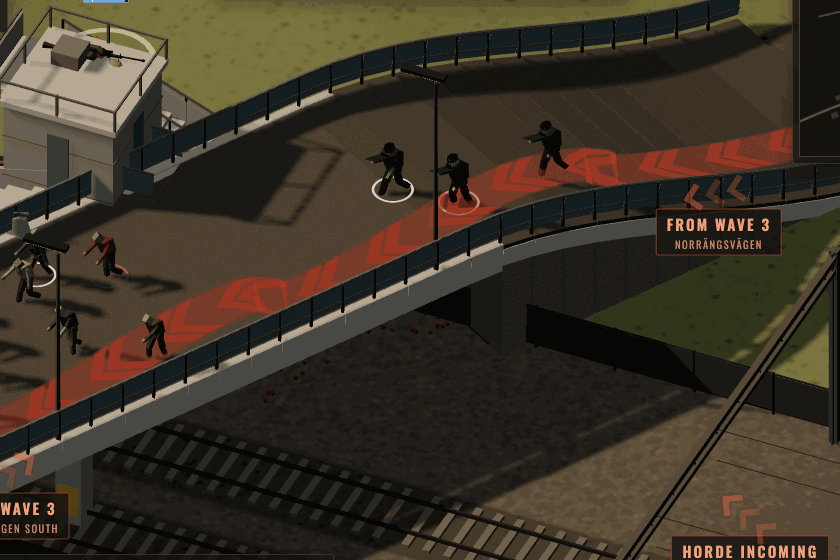
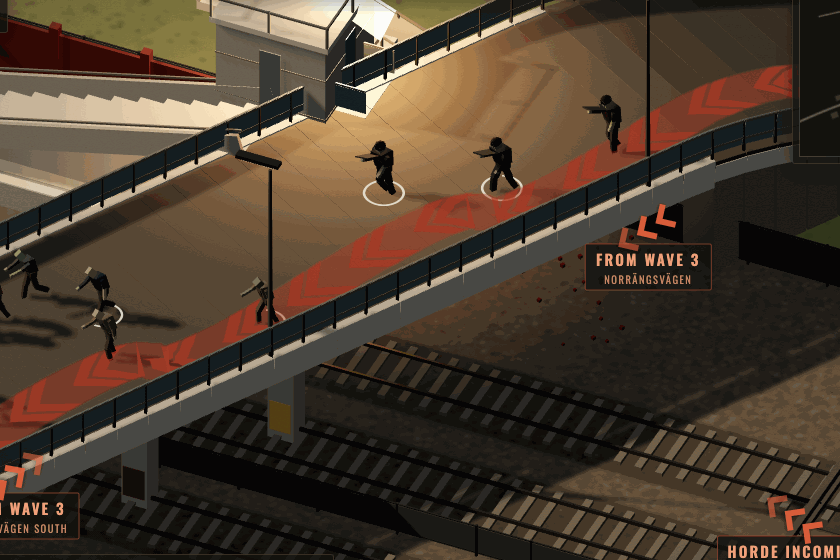
0.20.1: CHANGELOG, balansloggen, todo H520 till H528, skivprovets bilder

diff --git a/todo.md b/todo.md
@@ -444,3 +444,12 @@ Format: `- [ ] id | område | sak`. Bocka av med [x] när det är gjort.
 - [ ] H500 | hub | Kartbordet v3 efter Olas beslut (mellansnack avsnitt 11): ingen tejp, fysisk känsla, en sak i taget (karta + en lapp först), lappar staplade per uppdrag, egen hög för fiendeinfo, ett kort per enhet (ingen ×2), bättre översiktskarta (stor + inzoomad Gnesta senare), snören som detalj. Mockup kontrollrum-3.
 - [x] H501 | laxne | Sjösidan är tom: fyll med skog efter kartöversikten (kontrollera mot OSM wood och satellitbilden), bryggor och strandkant. Skog längs stranden norr och söder om badplatsen och söder om Spårbacken, vass och stenar i vattenbrynet, en fjärde brygga. (0.20.0)
 - [x] H502 | prestanda | Kartorna känns långsamma att ladda (Ola). Mät laddtid per karta (trädgenerering, modeller, importmap), visa laddningsmätare, cacha genererade träd, sänk polygoner där det inte syns. Laxne: 1,3 M trianglar, 223 anrop, 120 fps på Olas dator. Mätt (docs/reports/2026-10-19-laddtid.md): rutnäten för alla banor vid start, skogens gränser per provpunkt och vägavstånden per ruta; nu 0,4 till 0,7 s i spelet (var 1,9 till 2,1), mätare som följer stegen. Gnesta centrums shaderprogram (1,2 s) kvar. (0.20.0)
+- [x] H520 | molnbo | Speltestet av 0.20.0, fynd 1: dag 1 "Hold the bridge" skickade spelaren till bron, de civila dog vid de första husen. Introt säger var man ska stå, första lektionen pekar på husen och linjerna, kameran börjar på norra sidan, husen närmast bron går först (0.20.1).
+- [x] H521 | molnbo | Speltestet av 0.20.0, fynd 2 och 7: dag 2 tog tolv minuter; sex till sju nu (tidigare vågor, hårdare svans). Kameran glider till perrongen när tåget signalerar (0.20.1).
+- [x] H522 | molnbo | Speltestet av 0.20.0, fynd 3: flodvågen dag 3 var tunn; cirka 200 under 20 s ur dimman och husen, vågornas rester borta, banderoll över hela bredden (0.20.1).
+- [x] H523 | molnbo | Speltestet av 0.20.0, fynd 4: kameran börjar rätt alla tre dagarna (dag 2 och 3 bron och basen), Folkets hus har en etikett (0.20.1).
+- [x] H524 | ui | Speltestet av 0.20.0, fynd 6: UNITS 6 / 9 när alla kort sa All out; talet efter snedstrecket är nu det som går att ha ute (0.20.1).
+- [x] H525 | e4 | Speltestet av 0.20.0: E4 dag 2:s intro avslöjade Södertälje; introt neutralt, raden "Runners from Södertälje, behind you!" när de kommer (0.20.1). Kvar att avgöra: lektionen "Two roads in. Södertälje joins from wave 2." och etiketten From wave 2 avslöjar fortfarande (Olas rättvisebeslut 0.16.4).
+- [ ] H526 | gnesta-norr | Speltestet av 0.20.0, fynd 5: Vikingavägen dag 4 förlorades med Quick jump och auto-deploy, men balansskriptet (0.20.1) vinner dag 4 i alla seeds (skilled bas 4 till 9, normal inom 1 till 2 försök). Hoppets trupp (debugReach utan ARRIVAL_TROOP för gnesta-norr) är svagare än balansens; ge hoppet balansens ankomst som Mölnbo har.
+- [ ] H527 | text | Speltestet av 0.20.0, småsaker: operationskartans "Same district, wider map." före Mölnbo dag 2, etiketten SECTOR E4 krockar med ett rutnätsnummer, fiendekortet för Walkers säger "infected on the E4" på Mölnbo, dag 2:s resultat säger inte att norra sidan är förlorad.
+- [ ] H528 | molnbo | Snubblet på Mölnbo: vägarna är längre på den nya kartan, så var tredje löpare snubblar (tests/stumble.test.js tillåter 0,4). Speltest: för ofta?

diff --git a/CHANGELOG.md b/CHANGELOG.md
@@ -1,5 +1,24 @@
 # Ändringslogg
 
+## 0.20.1: speltestet av 0.20.0 (2026-10-19)
+
+Speltestet sa JA med reservationer (docs/playtests/2026-10-19-0.20.0.md).
+
+Mölnbo dag 1. Introt sa "Hold the bridge", testaren ställde allt vid bron och förlorade på 36 s när de civila dog vid de första husen uppe vid Järna. Nu: "From Järna. Cover the north side. Civilians cross the bridge behind you." Kameran börjar på norra sidan med vägen in, husen och bron i bild, första lektionen pekar på husen och de gula linjerna, och husen närmast bron går först (de längst upp mot Järna sist, när spelaren hunnit ställa sig).
+
+Dag 2 var tolv minuter i 1x; nu cirka sex och en halv för den som läser kartan. Nästa våg kommer tidigare och svansen är hårdare (ingen ensam bjässe i två minuter). Kameran glider till perrongen när pendeltåget signalerar.
+
+Dag 3:s flodvåg är tät: cirka 200 under 20 sekunder ur dimman längs väg 57, Norrängsvägen, Backvägen och Skogstorpsvägen och ur husen på norra sidan, dörr för dörr. Det som var kvar av dagens vågor försvinner när uttåget börjar, så bilden visar flodvågen. "Time. Pull out to Gnesta!" står i en banderoll över hela bredden.
+
+Kameran börjar rätt alla tre dagarna: dag 1 på norra sidan, dag 2 och 3 med bron och basen i bild. Folkets hus har en etikett, "Folkets hus · Base". Mölnbo går att zooma ut längre (kartan är större).
+
+Smått:
+- UNITS-räknaren visar det som går att ha ute (frontbredden, eller dagens trupp om den är mindre), inte "6 / 9" när alla kort säger All out.
+- E4 dag 2:s intro avslöjar inte Södertälje; en rad säger till när de kommer.
+- Lappar och perrongens etikett: klicket på tågets banderoll tar fram perrongen direkt även medan kameran glider.
+- Vikingavägen dag 4 vinns i balansskriptet i alla seeds (skilled och normal); förlusten i speltestet kom ur Quick jump-truppen (todo H526). Ingen ändring.
+- Balansen: docs/balance-log.md, Mölnbo 0.20.1.
+
 ## 0.20.0 (Mölnbo efter satellitbilden och kampanjbågen) (2026-10-19)
 
 Mölnbo är omritat efter Olas satellitbild och har nu tre dagar, kampanjens dag 8 till 10 (H494, H495, kampanjplanen avsnitt 10).

diff --git a/docs/balance-log.md b/docs/balance-log.md
@@ -1254,3 +1254,18 @@ Kartläsaren vinner för lätt (basen hel dag 3); det är ett känt glapp mellan
 Fingeravtrycken: mbSmart 3eb447c8, c6df086e, a987d15d; mbNaive c395415f, 724a4294, 8c95da16.
 
 Andra prov som ändrades med kartan (inte balans): bilspärren i tests/shove.test.js ligger på Kvarnvägen med gruppen söderifrån (vid Missionskyrkan finns nu en lika kort väg runt), snubblets prov mäter dag 2 och tillåter upp till 0,36 (vägen från Järna är längre, fler meter att snubbla på), svansens bjässar får 200 s (cirka 180 med svansen).
+
+## Mölnbo 0.20.1: speltestet av 0.20.0
+
+Dag 1 och 2 nya, dag 3 ny; alla tre fingeravtrycken nya avsiktligt.
+
+- Dag 1: husen i omvänd ordning, närmast bron först (speltestet: de första husen låg på väg 57 där horden kom in). Kartläsaren och den som aldrig spärrar får 20 till 23 över (need 19).
+- Dag 2: overlap 50 till 30 s och overlapMin 0,4 till 0,3 (nästa våg tidigare), svansen n 8, after 6 s, mul 4 (dayCfg.tail), hp 13 till 12. Prövat: fortare takt (dayCfg.pace 1,45, hp 10) gav samma längd men fler dubbla snubbel; hp 10 utan takt gjorde dagen för lätt för den som aldrig spärrar (snittbas 14,2). Längd 1x: mbSmart 392 till 412 s, mbNaive 471 till 554 s (var 515 till 612). Basen: mbSmart 19 till 20, mbNaive 13 till 17.
+- Dag 3: flodvågen 207 (var 112), vågornas rester tas bort vid uttåget, bilden tonar ut tidigast 18 s in. Ingen påverkan på strid före klockan. Toppen räknas inte under uttåget.
+- Vikingavägen dag 4 (speltestet, fynd 5): npm run balance på 0.20.1: skilled vinner N4 på första försöket i alla seeds (bas seed 0: 4), normal inom 1 till 2. Ingen ändring; skillnaden mot speltestet är Quick jump-truppen (todo H526).
+
+    mbSmart  alla dagar första försöket; civila dag 1: 20 till 22; bas dag 2: 19, 20, 20, 20, 20; dag 3: 20
+    mbNaive  alla dagar första försöket; civila dag 1: 20 till 23; bas dag 2: 15, 13, 16, 13, 17; dag 3: 10, 20, 8, 14, 6
+
+Fingeravtrycken: mbSmart a1c2727c, 5ded47d4, a68be77c; mbNaive c7e13ad7, d3390930, edc96eaf.
+Snubblet (tests/stumble.test.js): dag 2 med tidigare vågor 6 av 52 två gånger, gränsen 12 % (todo H528).
